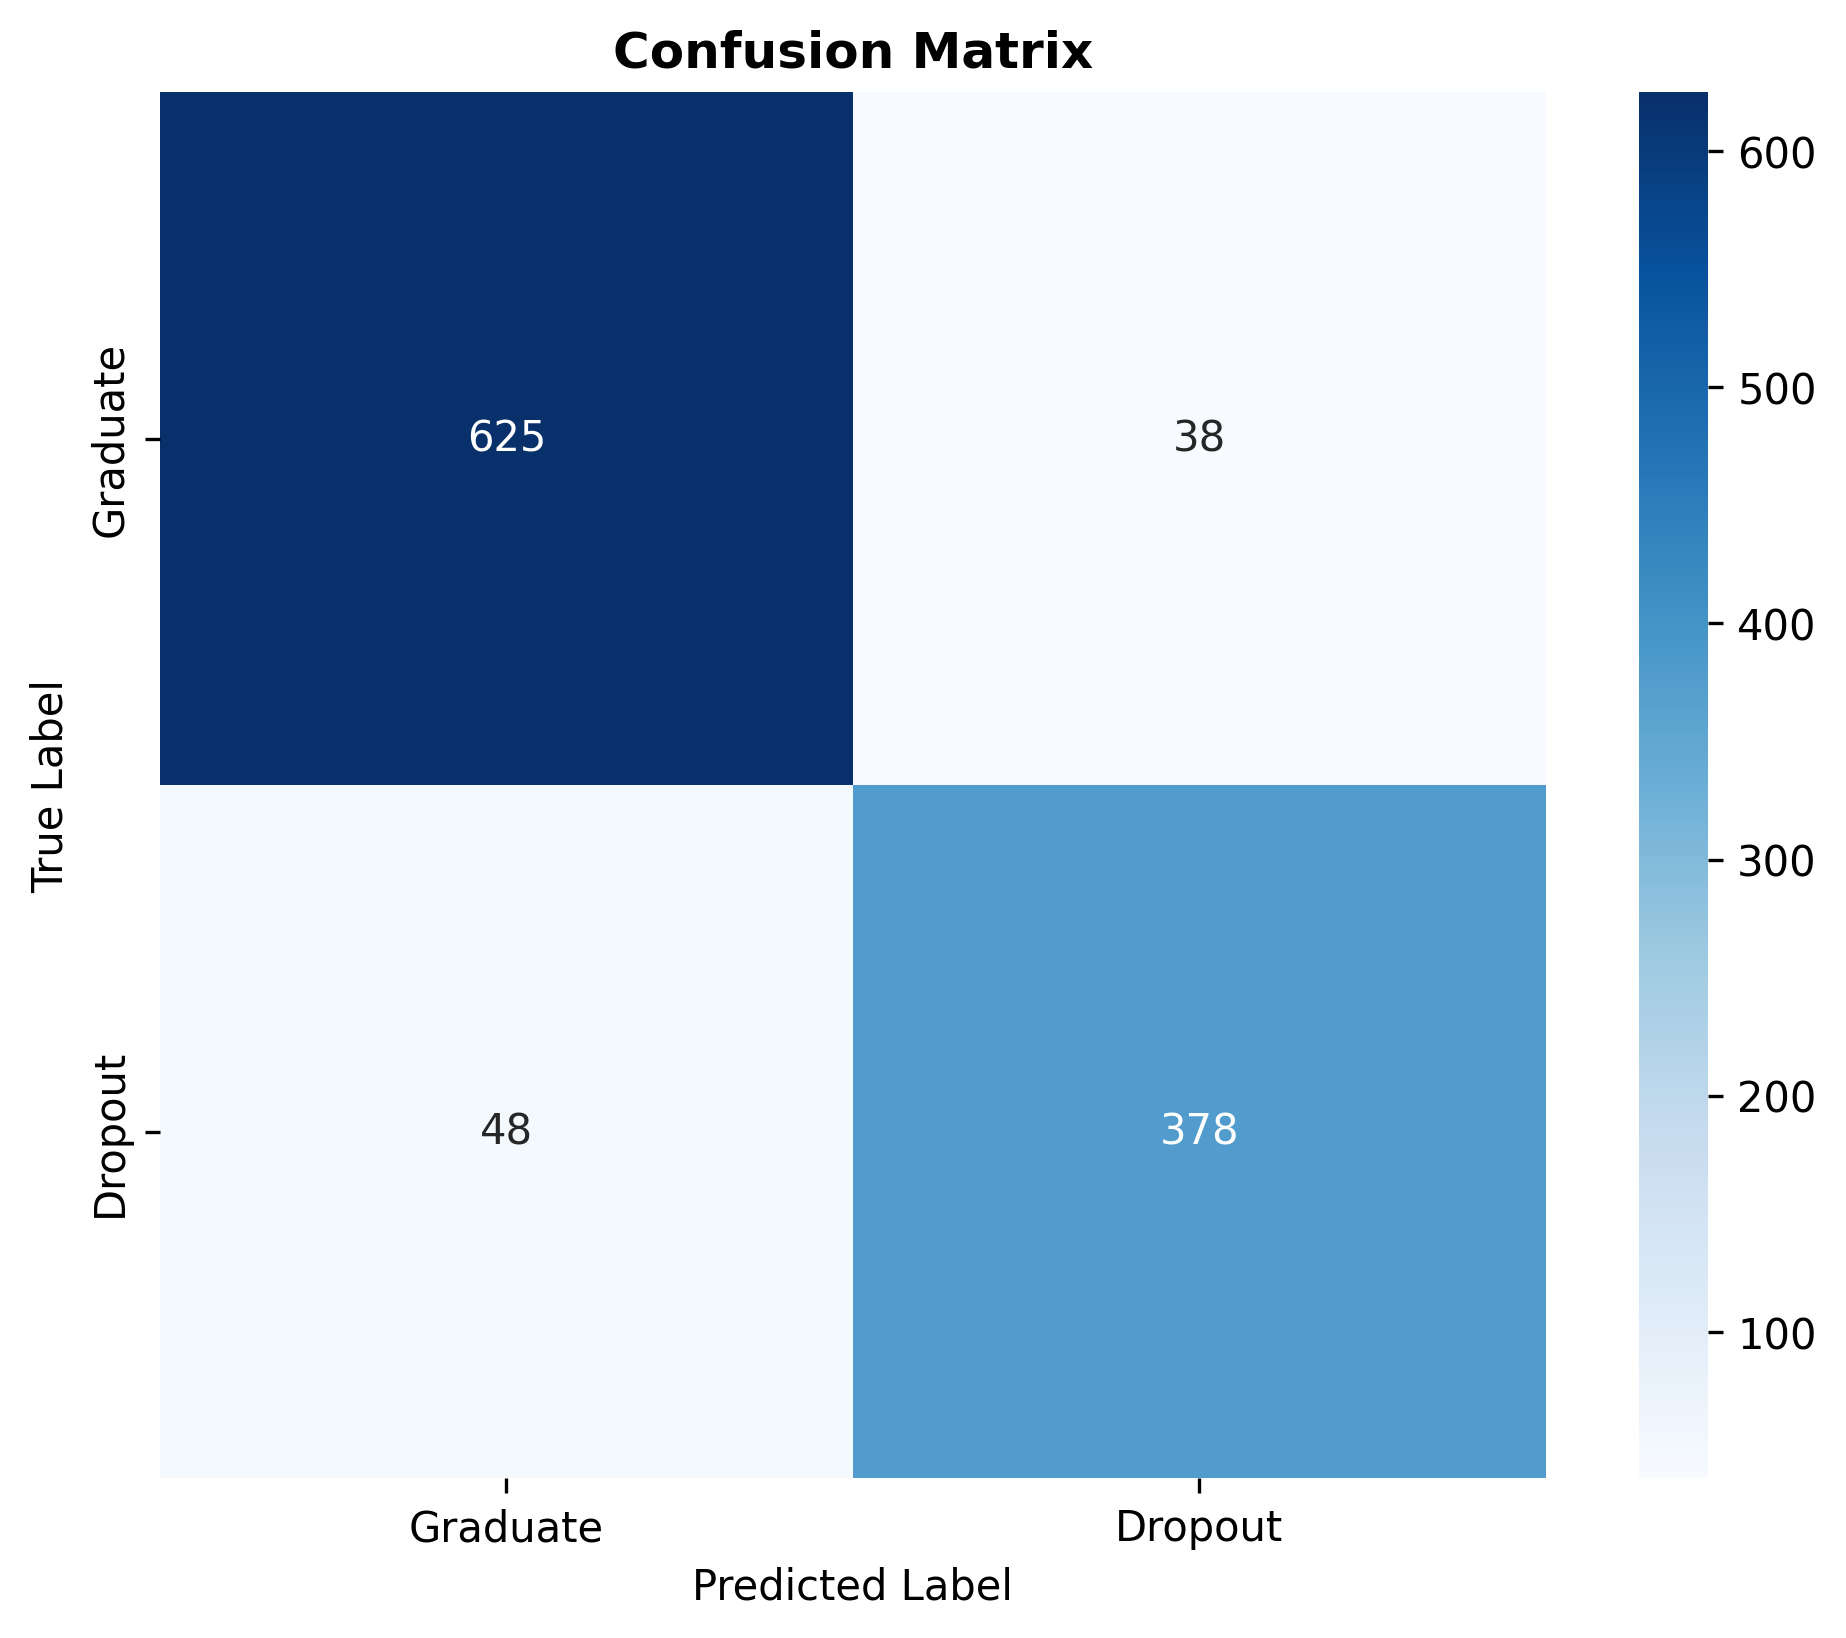
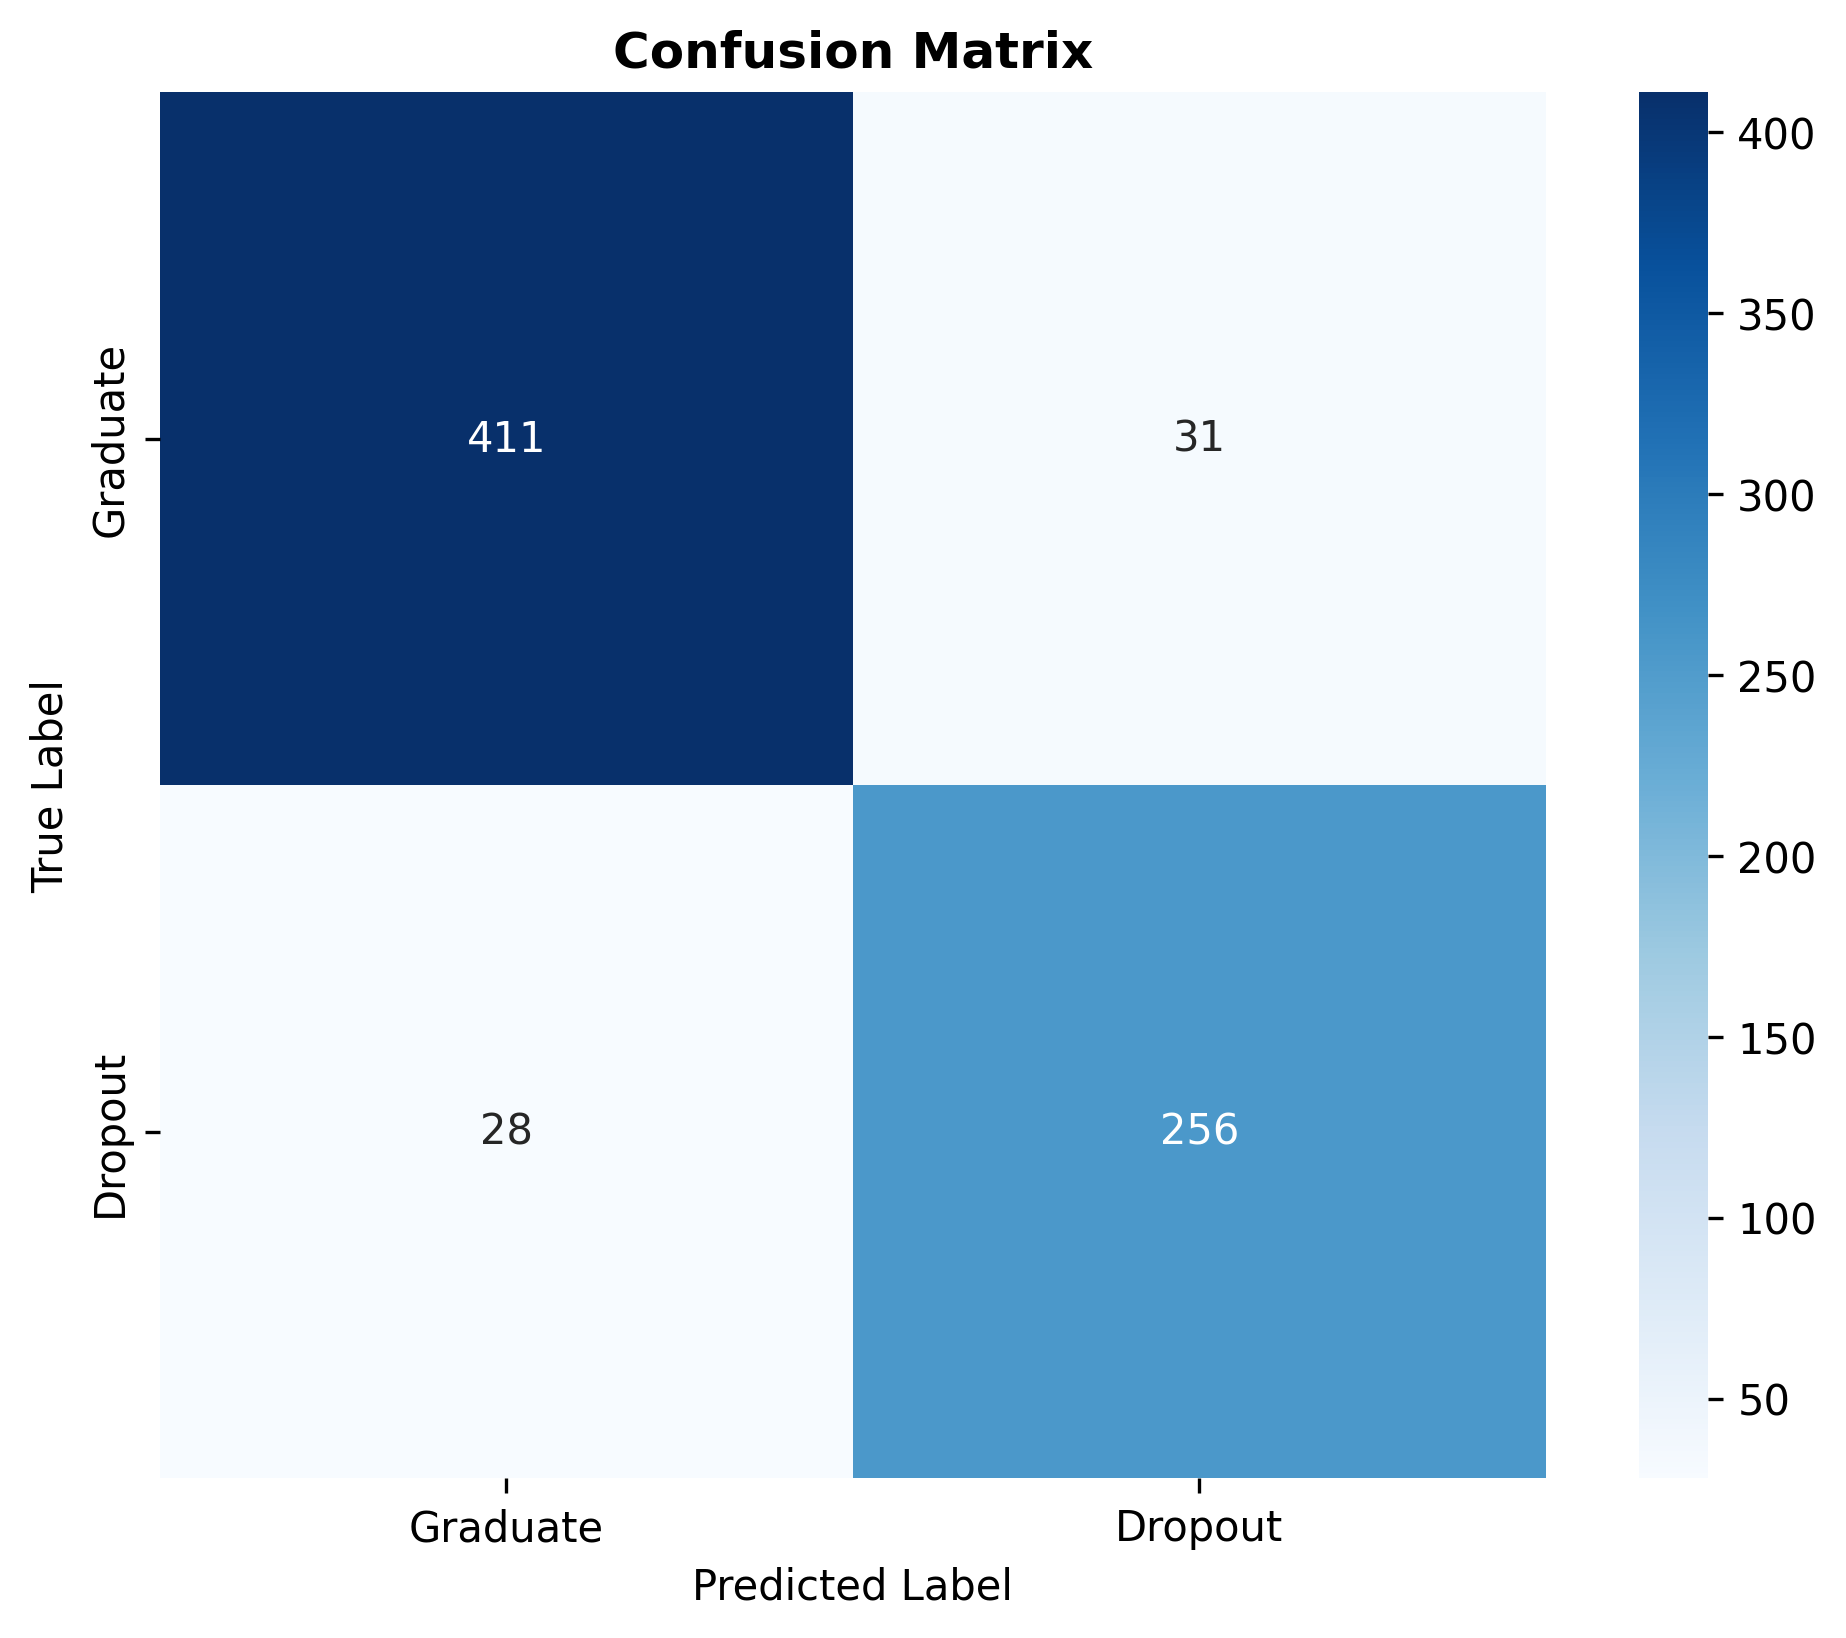
learning curve and overfit fix

diff --git a/src/evaluate.py b/src/evaluate.py
@@ -5,6 +5,7 @@ Model evaluation and Explainable AI (SHAP) module.
 from pathlib import Path
 
 import matplotlib.pyplot as plt
+import numpy as np
 import pandas as pd
 import seaborn as sns
 import shap
@@ -19,6 +20,7 @@ from sklearn.metrics import (
     roc_auc_score,
     roc_curve,
 )
+from sklearn.model_selection import learning_curve
 from xgboost import XGBClassifier
 
 
@@ -174,3 +176,83 @@ def plot_roc_curve(
     plt.close()
 
     print(f"ROC Curve saved to: {save_path}")
+
+
+def plot_learning_curve(
+    model: XGBClassifier,
+    X_train: pd.DataFrame,
+    y_train: pd.Series,
+    save_path: str | Path = "reports/learning_curve.png",
+) -> None:
+    """
+    Generates and saves the learning curve to diagnose overfitting or underfitting.
+
+    Args:
+        model: Trained XGBoost model.
+        X_train: Training features DataFrame.
+        y_train: Training target Series.
+        save_path: Path to save the generated plot.
+    """
+    print("\nGenerating Learning Curve (this might take a moment)...")
+
+    train_sizes, train_scores, test_scores = learning_curve(
+        estimator=model,
+        X=X_train,
+        y=y_train,
+        train_sizes=np.linspace(0.1, 1.0, 5),
+        cv=5,
+        scoring="roc_auc",
+        n_jobs=-1,
+    )
+
+    train_mean = np.mean(train_scores, axis=1)
+    train_std = np.std(train_scores, axis=1)
+    test_mean = np.mean(test_scores, axis=1)
+    test_std = np.std(test_scores, axis=1)
+
+    plt.figure(figsize=(8, 6))
+
+    plt.plot(
+        train_sizes,
+        train_mean,
+        color="blue",
+        marker="o",
+        markersize=5,
+        label="Training Score (ROC-AUC)",
+    )
+    plt.fill_between(
+        train_sizes,
+        train_mean + train_std,
+        train_mean - train_std,
+        alpha=0.15,
+        color="blue",
+    )
+
+    plt.plot(
+        train_sizes,
+        test_mean,
+        color="green",
+        linestyle="--",
+        marker="s",
+        markersize=5,
+        label="Cross-Validation Score (ROC-AUC)",
+    )
+    plt.fill_between(
+        train_sizes,
+        test_mean + test_std,
+        test_mean - test_std,
+        alpha=0.15,
+        color="green",
+    )
+
+    plt.title("Learning Curve", fontweight="bold")
+    plt.xlabel("Number of Training Samples", fontweight="bold")
+    plt.ylabel("ROC-AUC Score", fontweight="bold")
+    plt.legend(loc="lower right")
+    plt.grid(alpha=0.3)
+
+    Path(save_path).parent.mkdir(parents=True, exist_ok=True)
+    plt.savefig(save_path, dpi=300, bbox_inches="tight")
+    plt.close()
+
+    print(f"Learning Curve saved to: {save_path}")

diff --git a/src/features.py b/src/features.py
@@ -37,7 +37,7 @@ def calculate_mutual_information(
 
 
 def get_l1_selected_features(
-    X_train: pd.DataFrame, y_train: pd.Series, c_param: float = 0.1
+    X_train: pd.DataFrame, y_train: pd.Series, c_param: float = 0.01
 ) -> list[str]:
     """
     Selects features using L1 regularization (Lasso) via Logistic Regression.
@@ -69,7 +69,7 @@ def get_l1_selected_features(
 
 
 def combine_feature_strategies(
-    mi_df: pd.DataFrame, l1_features: list[str], top_k_mi: int = 20
+    mi_df: pd.DataFrame, l1_features: list[str], top_k_mi: int = 12
 ) -> list[str]:
     """
     Creates a final robust feature set by combining top MI features and L1 features.

diff --git a/src/train.py b/src/train.py
@@ -18,7 +18,7 @@ def objective(trial: optuna.Trial, X: pd.DataFrame, y: pd.Series) -> float:
     params = {
         "n_estimators": trial.suggest_int("n_estimators", 100, 800, step=100),
         "learning_rate": trial.suggest_float("learning_rate", 1e-3, 0.1, log=True),
-        "max_depth": trial.suggest_int("max_depth", 3, 10),
+        "max_depth": trial.suggest_int("max_depth", 3, 7),
         "min_child_weight": trial.suggest_int("min_child_weight", 1, 7),
         "subsample": trial.suggest_float("subsample", 0.6, 1.0),
         "colsample_bytree": trial.suggest_float("colsample_bytree", 0.6, 1.0),

diff --git a/main.py b/main.py
@@ -43,6 +43,9 @@ def main() -> None:
     evaluate.explain_model_with_shap(best_model, X_train_selected, X_test_selected)
     evaluate.plot_roc_curve(best_model, X_test_selected, y_test)
 
+    # اضافه شدن رسم نمودار یادگیری برای تشخیص اورفیتینگ
+    evaluate.plot_learning_curve(best_model, X_train_selected, y_train)
+
     print("\n✅ Pipeline completed successfully. Check the 'reports' folder for plots.")
 
 

diff --git a/src/config.py b/src/config.py
@@ -14,4 +14,4 @@ TARGET_POSITIVE_CLASS = "Dropout"
 
 # Machine Learning Parameters
 RANDOM_STATE = 42
-TEST_SIZE = 0.30
+TEST_SIZE = 0.20
